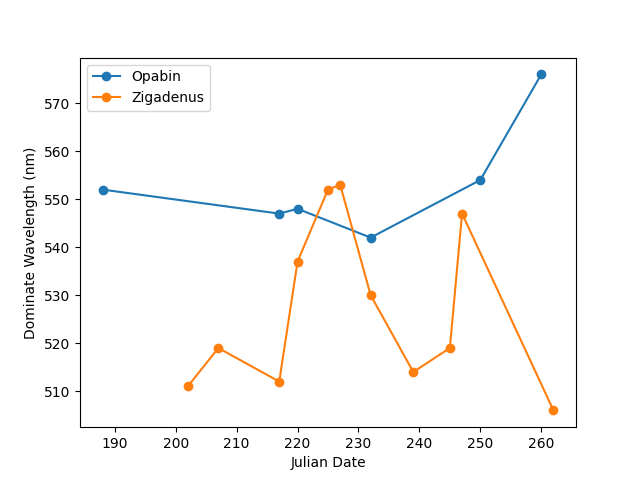
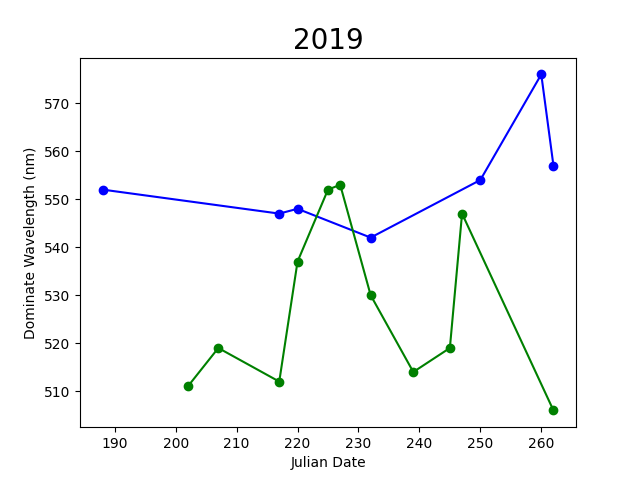
added more graphing function

diff --git a/plot.py b/plot.py
@@ -110,38 +110,63 @@ def makeDWTurGraph(data1, lake_name1, data2, lake_name2, data3, lake_name3):
 Generates graph of Time x Dominate Wavelength for a given lake.
 '''
 def makeDWTimeGraph(data, lake_name):
+    plt.title(label=lake_name, fontsize=20, color='black')
     for key in data:
         x = np.array(data[key]['Julian'])
         y = np.array(data[key]['domwave'])
         list=zip(*sorted(zip(*(x,y))))
         plt.plot(*list, label=key, marker = 'o')
-        plt.xlabel('Julian Date')
-        plt.ylabel('Dominate Wavelength (nm)')
-        plt.legend()
-        plt.savefig("./figures/" + lake_name + "_DWTime.png")
+    plt.xlabel('Julian Date')
+    plt.ylabel('Dominate Wavelength (nm)')
+    # plt.legend(bbox_to_anchor = (1.25, 0.6), loc='center right')
+    # plt.tight_layout()
+    plt.savefig("./figures/" + lake_name + "_DWTime.png")
 
 def makeMultiDWTimeGraph(year, data1, lake_name1, data2, lake_name2, data3, lake_name3):
+        plt.title(label=year, fontsize=20, color='black')
         x1 = np.array(data1[year]['Julian'])
         y1 = np.array(data1[year]['domwave'])
         list1=zip(*sorted(zip(*(x1,y1))))
-        plt.plot(*list1, label=lake_name1, marker = 'o')
+        plt.plot(*list1, color='blue', label=lake_name1, marker = 'o')
 
         if year in data2:
             x2 = np.array(data2[year]['Julian'])
             y2 = np.array(data2[year]['domwave'])
             list2=zip(*sorted(zip(*(x2,y2))))
-            plt.plot(*list2, label=lake_name2, marker = 'o')
+            plt.plot(*list2, color='orange', label=lake_name2, marker = 'o')
 
         if year in data3:
             x3 = np.array(data3[year]['Julian'])
             y3 = np.array(data3[year]['domwave'])
             list3=zip(*sorted(zip(*(x3,y3))))
-            plt.plot(*list3, label=lake_name3, marker = 'o')
+            plt.plot(*list3, color='green', label=lake_name3, marker = 'o')
 
         plt.xlabel('Julian Date')
         plt.ylabel('Dominate Wavelength (nm)')
-        plt.legend()
+        # plt.legend(bbox_to_anchor = (1.53, 0.6), loc='center right')
+        # plt.tight_layout()
         plt.savefig("./figures/multi_" + str(year) + "_DWTime.png")
+
+def makeMultiDWTimeSigGraph(year, data2, lake_name2, data3, lake_name3):
+        plt.title(label=year, fontsize=20, color='black')
+        if year in data2:
+            x2 = np.array(data2[year]['Julian'])
+            y2 = np.array(data2[year]['domwave'])
+            list2=zip(*sorted(zip(*(x2,y2))))
+            plt.plot(*list2, color='orange', label=lake_name2, marker = 'o')
+
+        if year in data3:
+            x3 = np.array(data3[year]['Julian'])
+            y3 = np.array(data3[year]['domwave'])
+            list3=zip(*sorted(zip(*(x3,y3))))
+            plt.plot(*list3, color='green', label=lake_name3, marker = 'o')
+
+        plt.xlabel('Julian Date')
+        plt.ylabel('Dominate Wavelength (nm)')
+        # plt.legend(bbox_to_anchor = (1.53, 0.6), loc='center right')
+        # plt.tight_layout()
+        plt.savefig("./figures/multi_" + str(year) + "_DWTimeSig.png")
+
 
 '''
 Generates duel axis graph of dominate wavelength and turbidity over time for a given lake.
@@ -165,13 +190,32 @@ def makeDuel(data, lake_name):
         ax1.set_ylabel("Dominate Wavelength (nm)")
         ax1.tick_params(axis="y")
 
-        ax2.set_ylabel("Tubidity")
+        ax2.set_ylabel("Tubidity (NTU)")
         ax2.tick_params(axis="y")
 
         fig.legend(loc="upper right")
         plt.ylim(min(y2), max(y2))
         plt.savefig("./figures/" + lake_name + "_" + str(key) + "_DWTur.png")
-    
+
+def getCorrelation(data1, data2, data3):
+    corr = {}
+    lake_1_dw = getSingleLakeData(data1, 'domwave')
+    lake_1_tur = getSingleLakeData(data1, 'turbidity')
+    corr['opabin'] = np.corrcoef(lake_1_dw, lake_1_tur)
+
+    lake_2_dw = getSingleLakeData(data2, 'domwave')
+    lake_2_tur = getSingleLakeData(data2, 'turbidity')
+    corr['peyto'] = np.corrcoef(lake_2_dw, lake_2_tur)
+
+    lake_3_dw = getSingleLakeData(data3, 'domwave')
+    lake_3_tur = getSingleLakeData(data3, 'turbidity')
+    corr['zigadenus'] = np.corrcoef(lake_3_dw, lake_3_tur)
+
+    dw = lake_1_dw + lake_2_dw + lake_3_dw
+    tur = lake_1_tur + lake_2_tur + lake_3_tur
+    corr['all'] = np.corrcoef(tur, dw)
+
+    return corr
 
 def main():
     input1 = open("./data/" + sys.argv[1], 'r',)
@@ -189,9 +233,9 @@ def main():
 
     '''---Uncomment funciton calls individually to generate graphs to avoid incorrect plotting---'''
 
-    '''Graph of Dominate Wavelength X Tubidity across three lakes'''
+    '''What is driving color? --> 1 graph'''
     # makeDWTurGraph(data1, lake_name1, data2, lake_name2, data3, lake_name3)
-    '''Graph of Time x Dominate Wavelength for a given lake'''
+    '''Variation amoung years within a lake --> 3 graphs'''
     # makeDWTimeGraph(data1, lake_name1)
     # makeDWTimeGraph(data2, lake_name2)
     # makeDWTimeGraph(data3, lake_name3)
@@ -200,11 +244,18 @@ def main():
     # makeDuel(data2, lake_name2)
     # makeDuel(data3, lake_name3)
 
-    '''Graph of Time x Dominate Wavelength of all lakes for a given year'''
+    '''Variation among lakes within a year'''
     # makeMultiDWTimeGraph(2019, data1, lake_name1, data2, lake_name2, data3, lake_name3)
     # makeMultiDWTimeGraph(2020, data1, lake_name1, data2, lake_name2, data3, lake_name3)
     # makeMultiDWTimeGraph(2021, data1, lake_name1, data2, lake_name2, data3, lake_name3)
     # makeMultiDWTimeGraph(2022, data1, lake_name1, data2, lake_name2, data3, lake_name3)
+
+    '''Correlation between turbidity and dominate wavlength'''
+    # print(getCorrelation(data1, data2, data3))
+
+    '''Significant'''
+    makeMultiDWTimeSigGraph(2021, data2, lake_name2, data3, lake_name3)
+    # makeMultiDWTimeSigGraph(2022, data2, lake_name2, data3, lake_name3)
 
     input1.close()
     input2.close()
